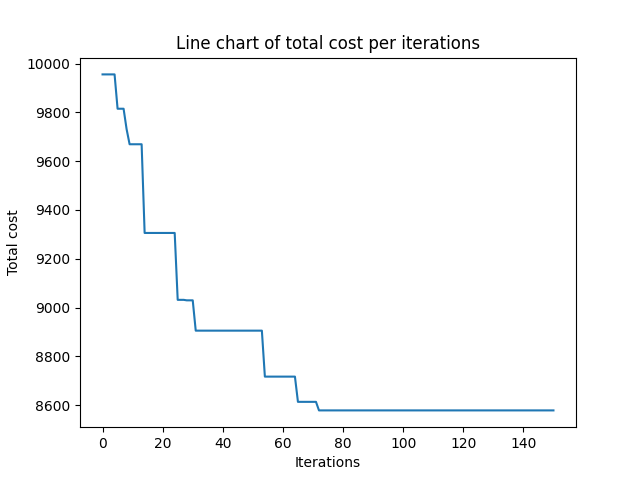
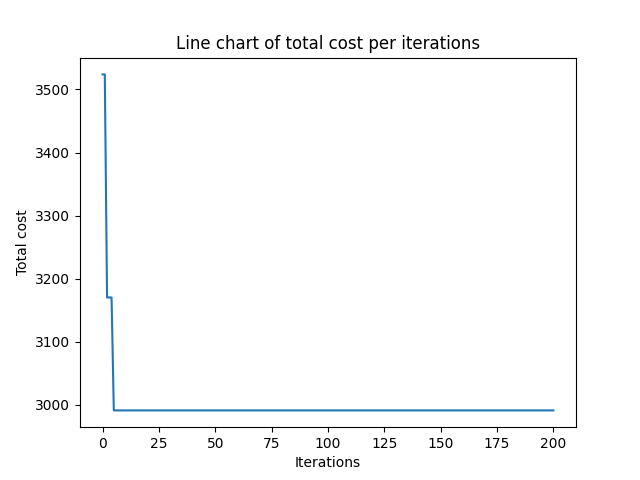
update number of vehicles

diff --git a/PSO_VRPTW.py b/PSO_VRPTW.py
@@ -25,10 +25,10 @@ df.to_csv('solomon_data.txt', index=False)
 vehicle_capacity = 200
 time_window_deviation = 50
 customers = {}
-num_customers = 50
+num_customers = 20
 end_point_data = num_customers + 2
 num_particles = 100
-max_iterations = 150
+max_iterations = 200
 w = 0.5
 c1 = 1.5
 c2 = 1.5
@@ -160,14 +160,14 @@ def pso(num_particles, num_customers, max_iterations):
         print(f"best position in loop {interval} : {split_route(convert_cus(gbest_position))}")
         print(f"best cost in loop {interval} : {gbest_fitness}")
         print("+++++++++++++++++++++++++")
-        time.sleep(1)
-    return { "best route" : split_route(convert_cus(gbest_position)),
+    return { "best_route" : split_route(convert_cus(gbest_position)),
             "best_cost" : gbest_fitness}
 
 # Example usage
 solution = pso(num_particles, num_customers, max_iterations)
-print(f"best route: {solution['best route']}")
+print(f"best_route: {solution['best_route']}")
 print(f"best_cost: {solution['best_cost']}")
+print(f"number of vehicles: {len(solution['best_route'])}")
 ratio = round((1 - ((best_val[-1])/best_val[0])) * 100,2)
 print(f"result in interval {max_iterations} is {ratio}% better than the original solution")
 plt.plot(best_val)
